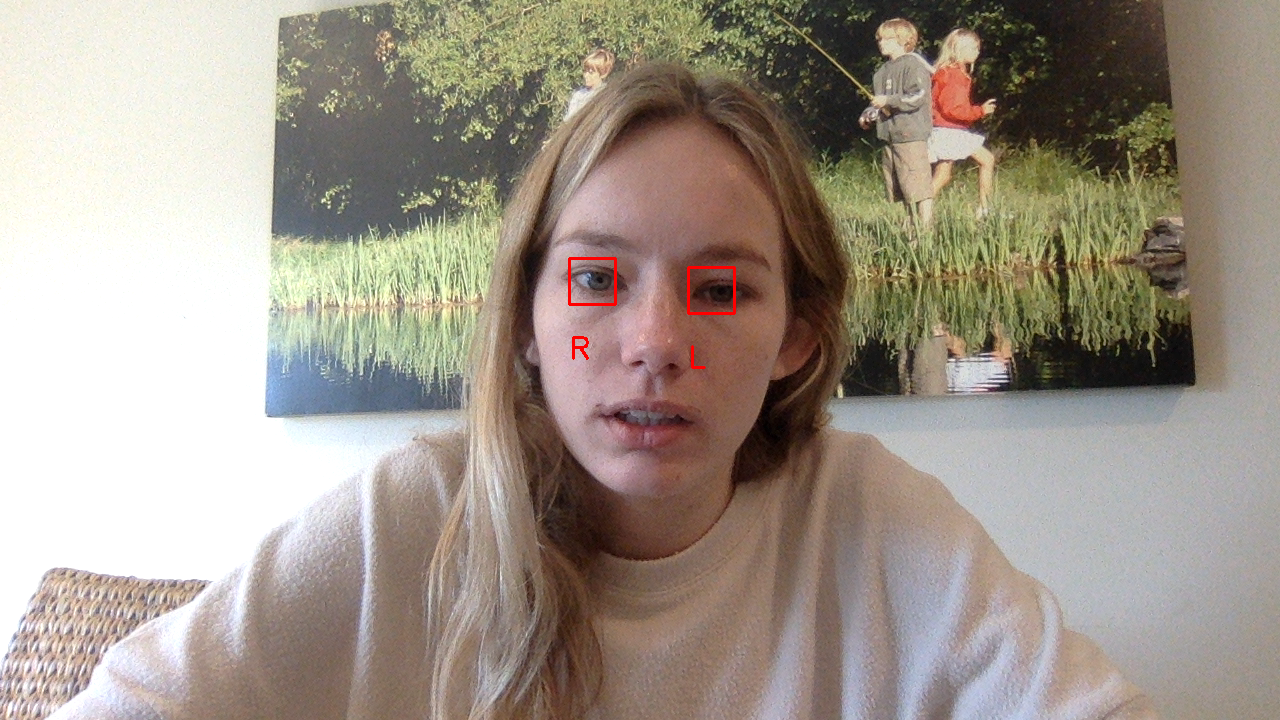
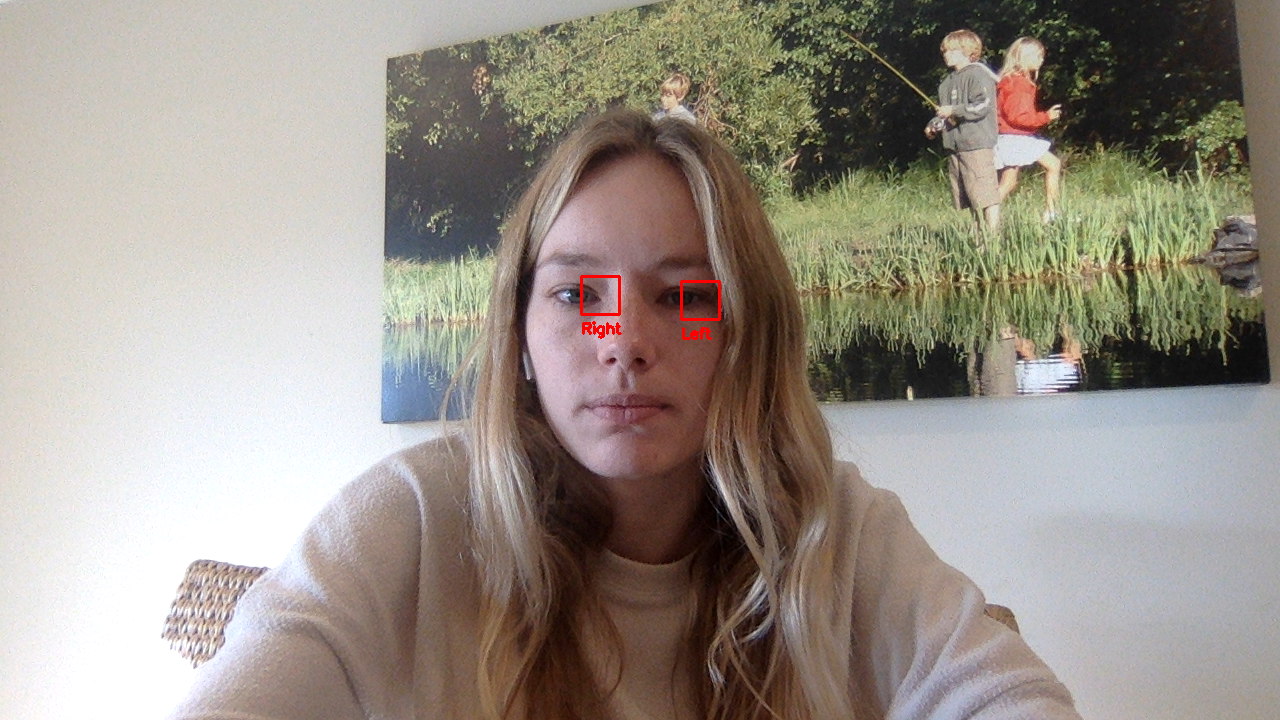
adjust font size

diff --git a/face-eye recognition/patient-eye-detection.py b/face-eye recognition/patient-eye-detection.py
@@ -30,10 +30,10 @@ height, width, channels = img.shape
 videoWriter = cv2.VideoWriter('outpy.avi', cv2.VideoWriter_fourcc('X','V','I','D'), 10, (width,height))
 
 #display patient with boxes around eyes
-sizeOfBox = (eyes[1][0] - eyes[0][0])/5
+sizeOfBox = int((eyes[1][0] - eyes[0][0])/5)
 print(sizeOfBox)
-sizeOfBox = int(sizeOfBox)
-print(sizeOfBox)
+fontSize = .5
+print(fontSize)
 i = 0
 while i < 30:
     ret, img = cap.read()
@@ -44,13 +44,13 @@ while i < 30:
     #draw box around right eye and add text 'Right'
     cv2.rectangle(boxed_img, pt1, pt2, color=(0, 0, 255), thickness=2)
     font = cv2.FONT_HERSHEY_SIMPLEX 
-    cv2.putText(boxed_img, 'R', (pt1[0],  pt1[1] + 100), font, 1, (0, 0, 255), 2, cv2.LINE_4)
+    cv2.putText(boxed_img, 'Right', (pt1[0],  pt2[1] + sizeOfBox), font, fontSize, (0, 0, 255), 2, cv2.LINE_4)
 
     pt1 = (int(eyes[1][0] - sizeOfBox), int(eyes[1][1] - sizeOfBox))
     pt2 = (int(eyes[1][0] + sizeOfBox) , int(eyes[1][1] + sizeOfBox))
     #draw box around left eye and add text 'Left'
     cv2.rectangle(boxed_img, pt1, pt2, color=(0, 0, 255), thickness=2)
-    cv2.putText(boxed_img,  'L', (pt1[0],  pt1[1] + 100), font, 1, (0, 0, 255), 2, cv2.LINE_4)
+    cv2.putText(boxed_img,  'Left', (pt1[0],  pt2[1] + sizeOfBox), font, fontSize, (0, 0, 255), 2, cv2.LINE_4)
 
     cv2.imwrite('Boxed_Eyes.png', boxed_img)
     cv2.imshow('Patient Eyes', boxed_img)
@@ -79,13 +79,13 @@ while i < 30:
     if(var == 'l'):
         eye = patient[1]
         cv2.rectangle(boxed_img, pt1, pt2, color=(0, 255, 0), thickness=2)
-        cv2.putText(boxed_img, 'Left', (pt1[0], pt1[1] + 100), font, 1, (0, 255, 0), 2, cv2.LINE_4) 
+        cv2.putText(boxed_img, 'Left', (pt1[0], pt2[1] + sizeOfBox), font, fontSize, (0, 255, 0), 2, cv2.LINE_4) 
         
     else:
         pt1 = (int(eyes[0][0] - sizeOfBox), int(eyes[0][1] - sizeOfBox))
         pt2 = (int(eyes[0][0] + sizeOfBox) , int(eyes[0][1] + sizeOfBox))
         cv2.rectangle(boxed_img, pt1, pt2, color=(0, 255, 0), thickness=2)
-        cv2.putText(boxed_img, 'Right', (pt1[0], pt1[1] + 100), font, 1, (0, 255, 0), 2, cv2.LINE_4) 
+        cv2.putText(boxed_img, 'Right', (pt1[0], pt2[1] + sizeOfBox), font, fontSize, (0, 255, 0), 2, cv2.LINE_4) 
 
     cv2.imshow('Patient Eyes', boxed_img)
     cv2.waitKey(30)
